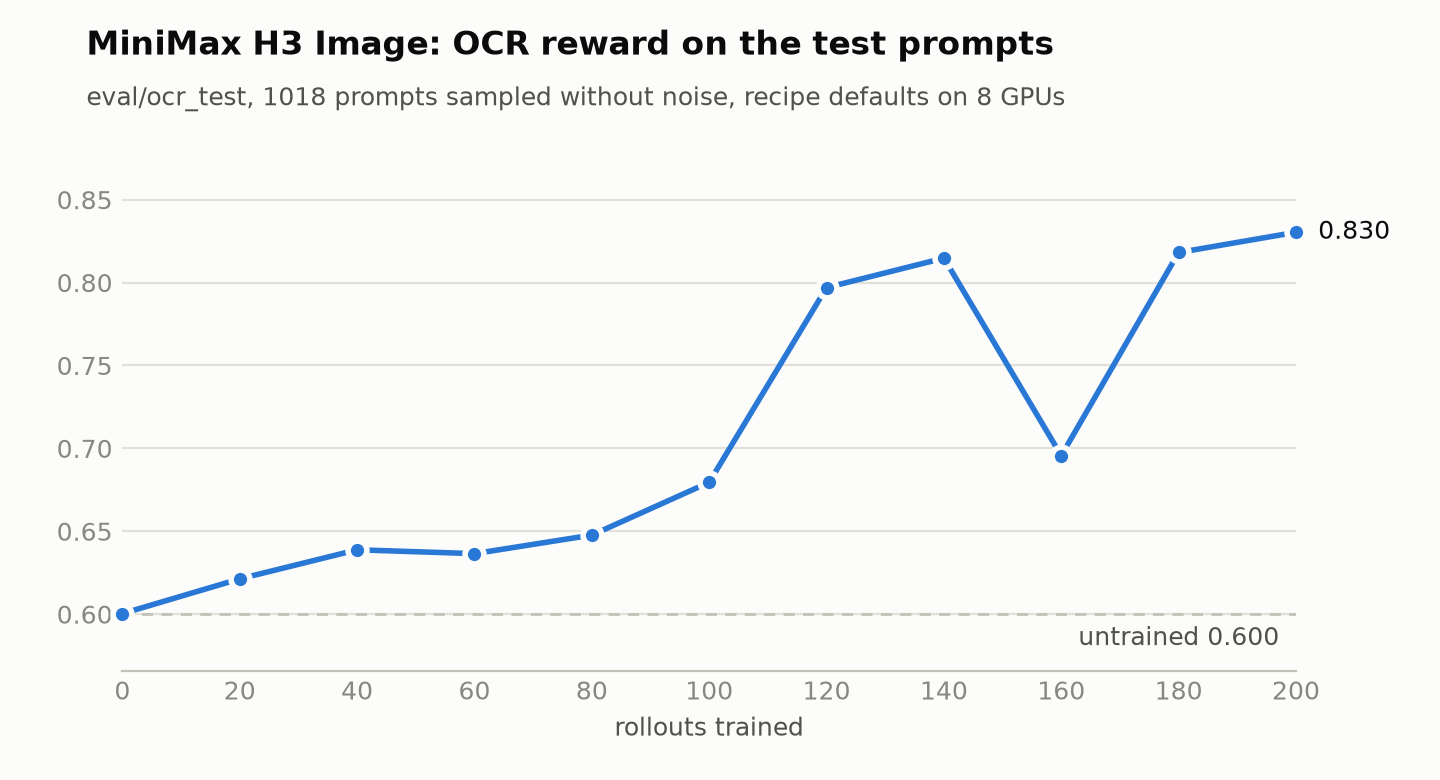
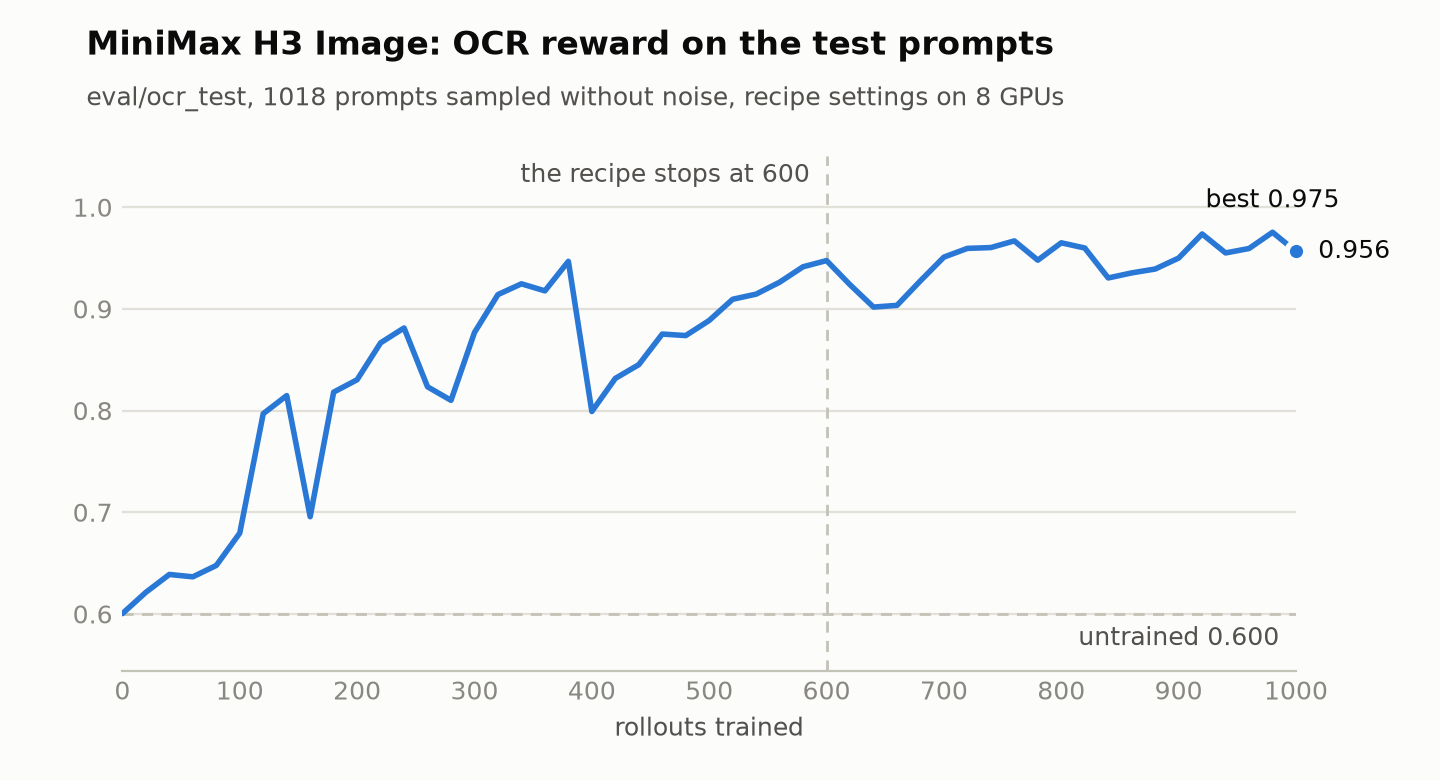
docs(h3-image): add the 1000-rollout curve to the model page
eval/ocr_test goes from 0.6003 to 0.9475 over the recipe's 600 rollouts and lies between 0.930 and
0.975 from rollout 700 to 1000. The page lists the drops along the way.

diff --git a/docs/models/h3/h3-image.md b/docs/models/h3/h3-image.md
@@ -73,7 +73,7 @@ What to watch:
 | Signal | Where | Reading |
 |---|---|---|
 | Reward | `eval/ocr_test`, `rollout/reward/raw_mean` | Eval is the 1018-prompt test split, sampled without noise, so two evals differ only by the weights. The rollout reward follows the 8 prompts of its rollout (0.47 to 0.84 on the base model) |
-| Rollout vs train | `train/model_output_mean_abs_diff`, `train/prev_mean_diff_over_noise_std` | The trainer's forward and transition mean against the engine's own (`--diffusion-debug-mode`); about 0.02 and 0.018 on a rollout's first optimizer step, and they should stay there |
+| Rollout vs train | `train/model_output_mean_abs_diff`, `train/prev_mean_diff_over_noise_std` | The trainer's forward and transition mean against the engine's own (`--diffusion-debug-mode`); about 0.02 and 0.018 on a rollout's first optimizer step of the base model. They should not grow: over 1000 rollouts they fell to 0.010 and 0.007 |
 | PPO ratio | `train/clipfrac`, `train/log_prob_mean_abs_diff` | 0 on a rollout's first optimizer step (the old log-prob is recomputed by the trainer), then how far that step moved the policy |
 | Memory | `nvidia-smi`, `train/device_memory_used_gb` | A GPU peaks near 69 GB, during a rollout (its TP2 engine rank). While training, the engine is offloaded and about 24 GB are in use |
 
@@ -94,8 +94,8 @@ What to watch:
   engine's, 20-47% of the pairs are clipped before any update.
 - **lr 1e-4, 2 optimizer steps per rollout.** The learning rate decides whether the adapters generalize. At 2e-4 the
   recipe fits 8 fixed prompts 1.5 times as fast as at 1e-4, and on the full dataset gets worse on every prompt it has
-  not trained on: `eval/ocr_test` falls from 0.600 to 0.550 in 20 rollouts. At 1e-4 it rises to 0.621, and to 0.830
-  after 200 (§ 6). lr 3e-4 with a 3e-4 clip range and 4 optimizer steps took it to 0.37 in 10 rollouts.
+  not trained on: `eval/ocr_test` falls from 0.600 to 0.550 in 20 rollouts. At 1e-4 it rises to 0.621, and to 0.948
+  after 600 (§ 6). lr 3e-4 with a 3e-4 clip range and 4 optimizer steps took it to 0.37 in 10 rollouts.
 - **Tune on `eval/ocr_test`, not on the reward of a fixed prompt set**, which rises fastest for the settings that
   generalize worst. For a reading before the next eval, run the frozen-weights control of § 4 once:
   `--deterministic-mode` gives rollout k the same prompts and noise in every run, so a run's
@@ -103,7 +103,8 @@ What to watch:
 - **No gradient checkpointing.** One pair per forward peaks at 16 GB on the trainer, and checkpointing made the
   training phase a third longer (64 s against 47 s).
 - **Cost.** About 73 s per rollout on 8 H200: 14 s to generate and score 128 images, 47 s to train on their 640
-  pairs, the rest to move the engines and the trainer on and off the GPUs.
+  pairs, the rest to move the engines and the trainer on and off the GPUs. With the evals, the recipe's 600 rollouts
+  take 13 hours.
 - **Engine.** MiniMax-H3-Image rollouts need sgl-project/sglang#51113 in `sglang-miles`. The checkpoint must ship both
   layouts (§ 2).
 - **LoRA only.** The engine keeps the DiT's per-step output heads outside its parameters and cannot receive them, so
@@ -113,21 +114,24 @@ What to watch:
 
 ### 6.1 The recipe on the full dataset
 
-The recipe's 200 rollouts on 8 H200: 25,600 images, 4.4 hours at 79 s per rollout with the evals. They are the first
-200 of a `--num-rollout 1000` run; the learning rate is constant, so the two are the same run up to there.
+One run of the recipe's settings on 8 H200, 1000 rollouts in 22 hours. The recipe stops at 600 (76,800 images, 13
+hours); the learning rate is constant, so its run is the first 600 rollouts of this one.
 
-| Rollouts trained | 0 | 20 | 40 | 60 | 80 | 100 | 120 | 140 | 160 | 180 | 200 |
+| Rollouts trained | 0 | 100 | 200 | 300 | 400 | 500 | 600 | 700 | 800 | 900 | 1000 |
 |---|---|---|---|---|---|---|---|---|---|---|---|
-| `eval/ocr_test` | 0.6003 | 0.6213 | 0.6388 | 0.6365 | 0.6477 | 0.6795 | 0.7970 | 0.8147 | 0.6956 | 0.8181 | 0.8303 |
+| `eval/ocr_test` | 0.6003 | 0.6795 | 0.8303 | 0.8768 | 0.7991 | 0.8886 | 0.9475 | 0.9510 | 0.9650 | 0.9500 | 0.9565 |
 
 ![MiniMax H3 Image eval OCR](../../assets/images/h3/h3_image_ocr_eval.png)
 
-- **The eval is not monotonic.** After 160 rollouts it is 0.696, 0.12 below the evals before and after it. The eval
-  has no sampling noise, so that is what the weights of that rollout score. A checkpoint is saved with every eval
+- **Most of the gain comes in 600 rollouts.** The eval first passes 0.90 after 320 rollouts and is 0.948 after 600.
+  The 400 rollouts after that add about 0.01: the evals from 700 on lie between 0.930 and 0.975, the best after 980.
+- **The eval is not monotonic.** It fell 0.12 below its best so far after 160 rollouts, 0.07 after 280 and 0.15 after
+  400, and came back each time; the last of these took 200 rollouts. Later drops are 0.05 or less. The eval has no
+  sampling noise, so each value is what the weights of that rollout score. A checkpoint is saved with every eval
   (`--save-interval 20`): pick one by its eval, not the last one written.
 - **The trainer stays aligned with the engine.** `train/model_output_mean_abs_diff` on a rollout's first optimizer
-  step, averaged over 20 rollouts, stays between 0.020 and 0.025. `train/clipfrac` on the second optimizer step
-  averages 0.13 to 0.30.
+  step, averaged over 100 rollouts, goes from 0.021 to 0.010. `train/clipfrac` on the second optimizer step, averaged
+  over 20 rollouts, stays below 0.32.
 - **The run is reproducible.** A second launch reproduced the first 20 rollouts' rewards and the eval after them
   exactly.
 
